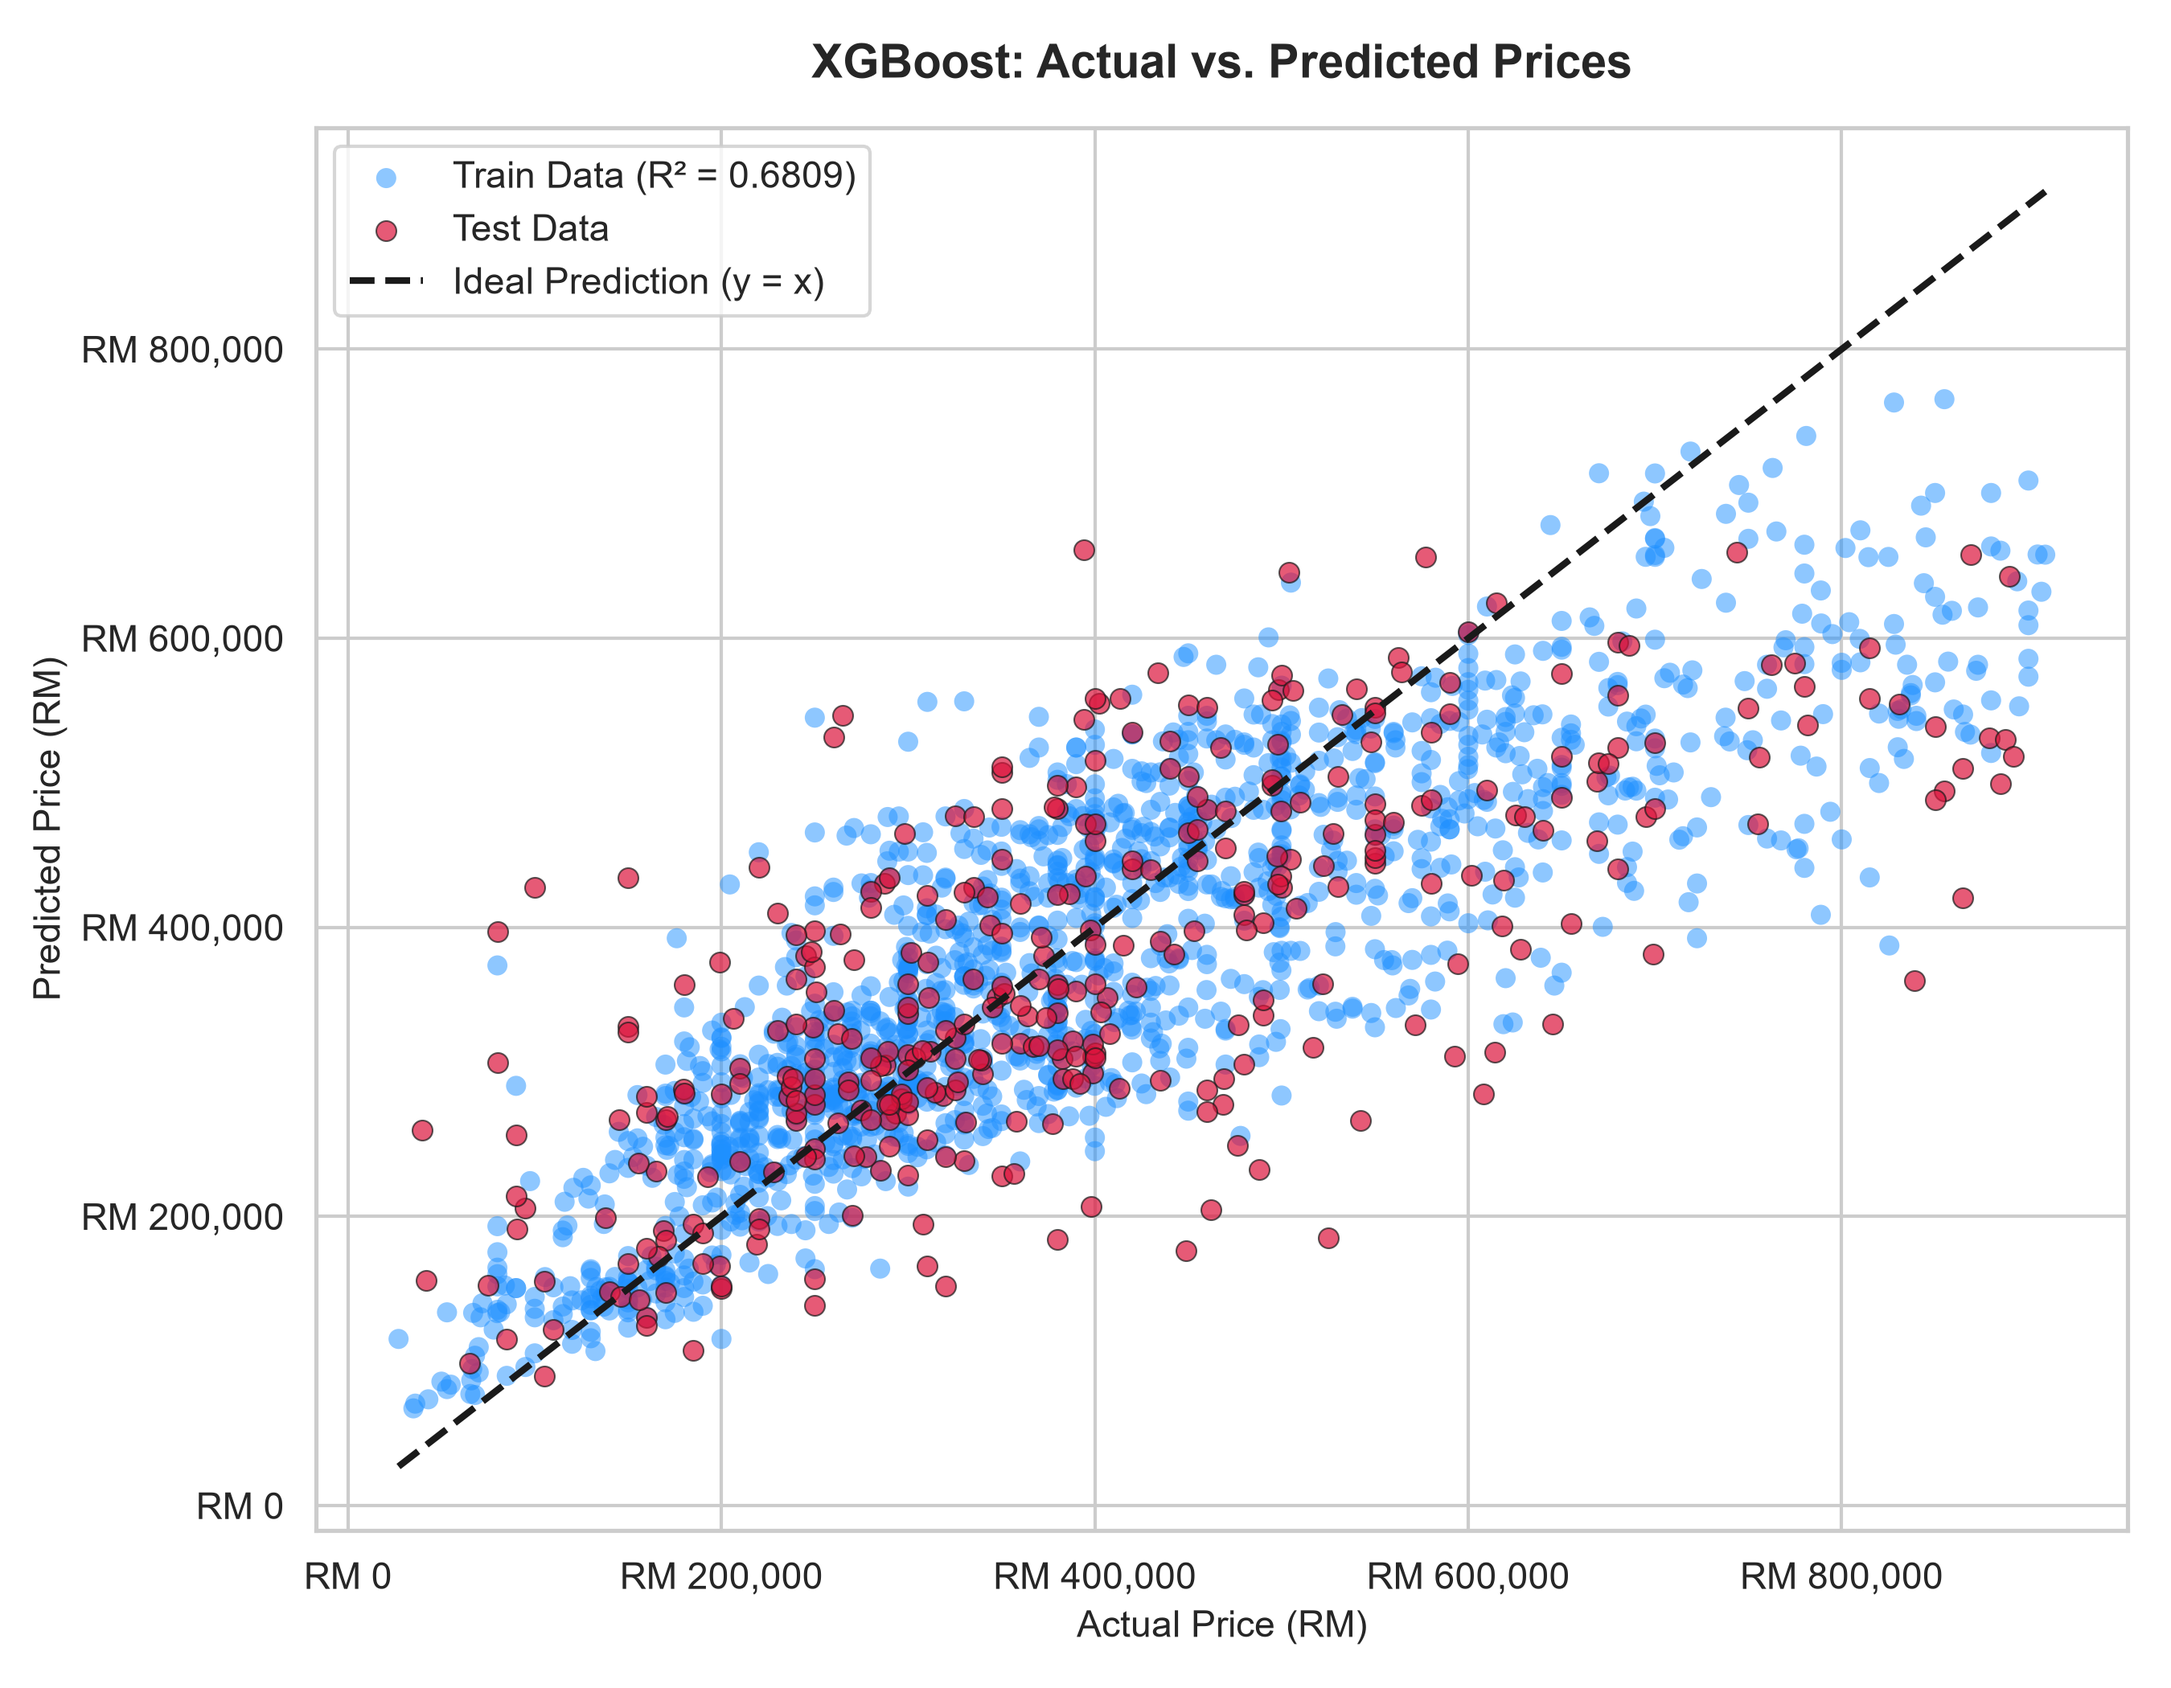
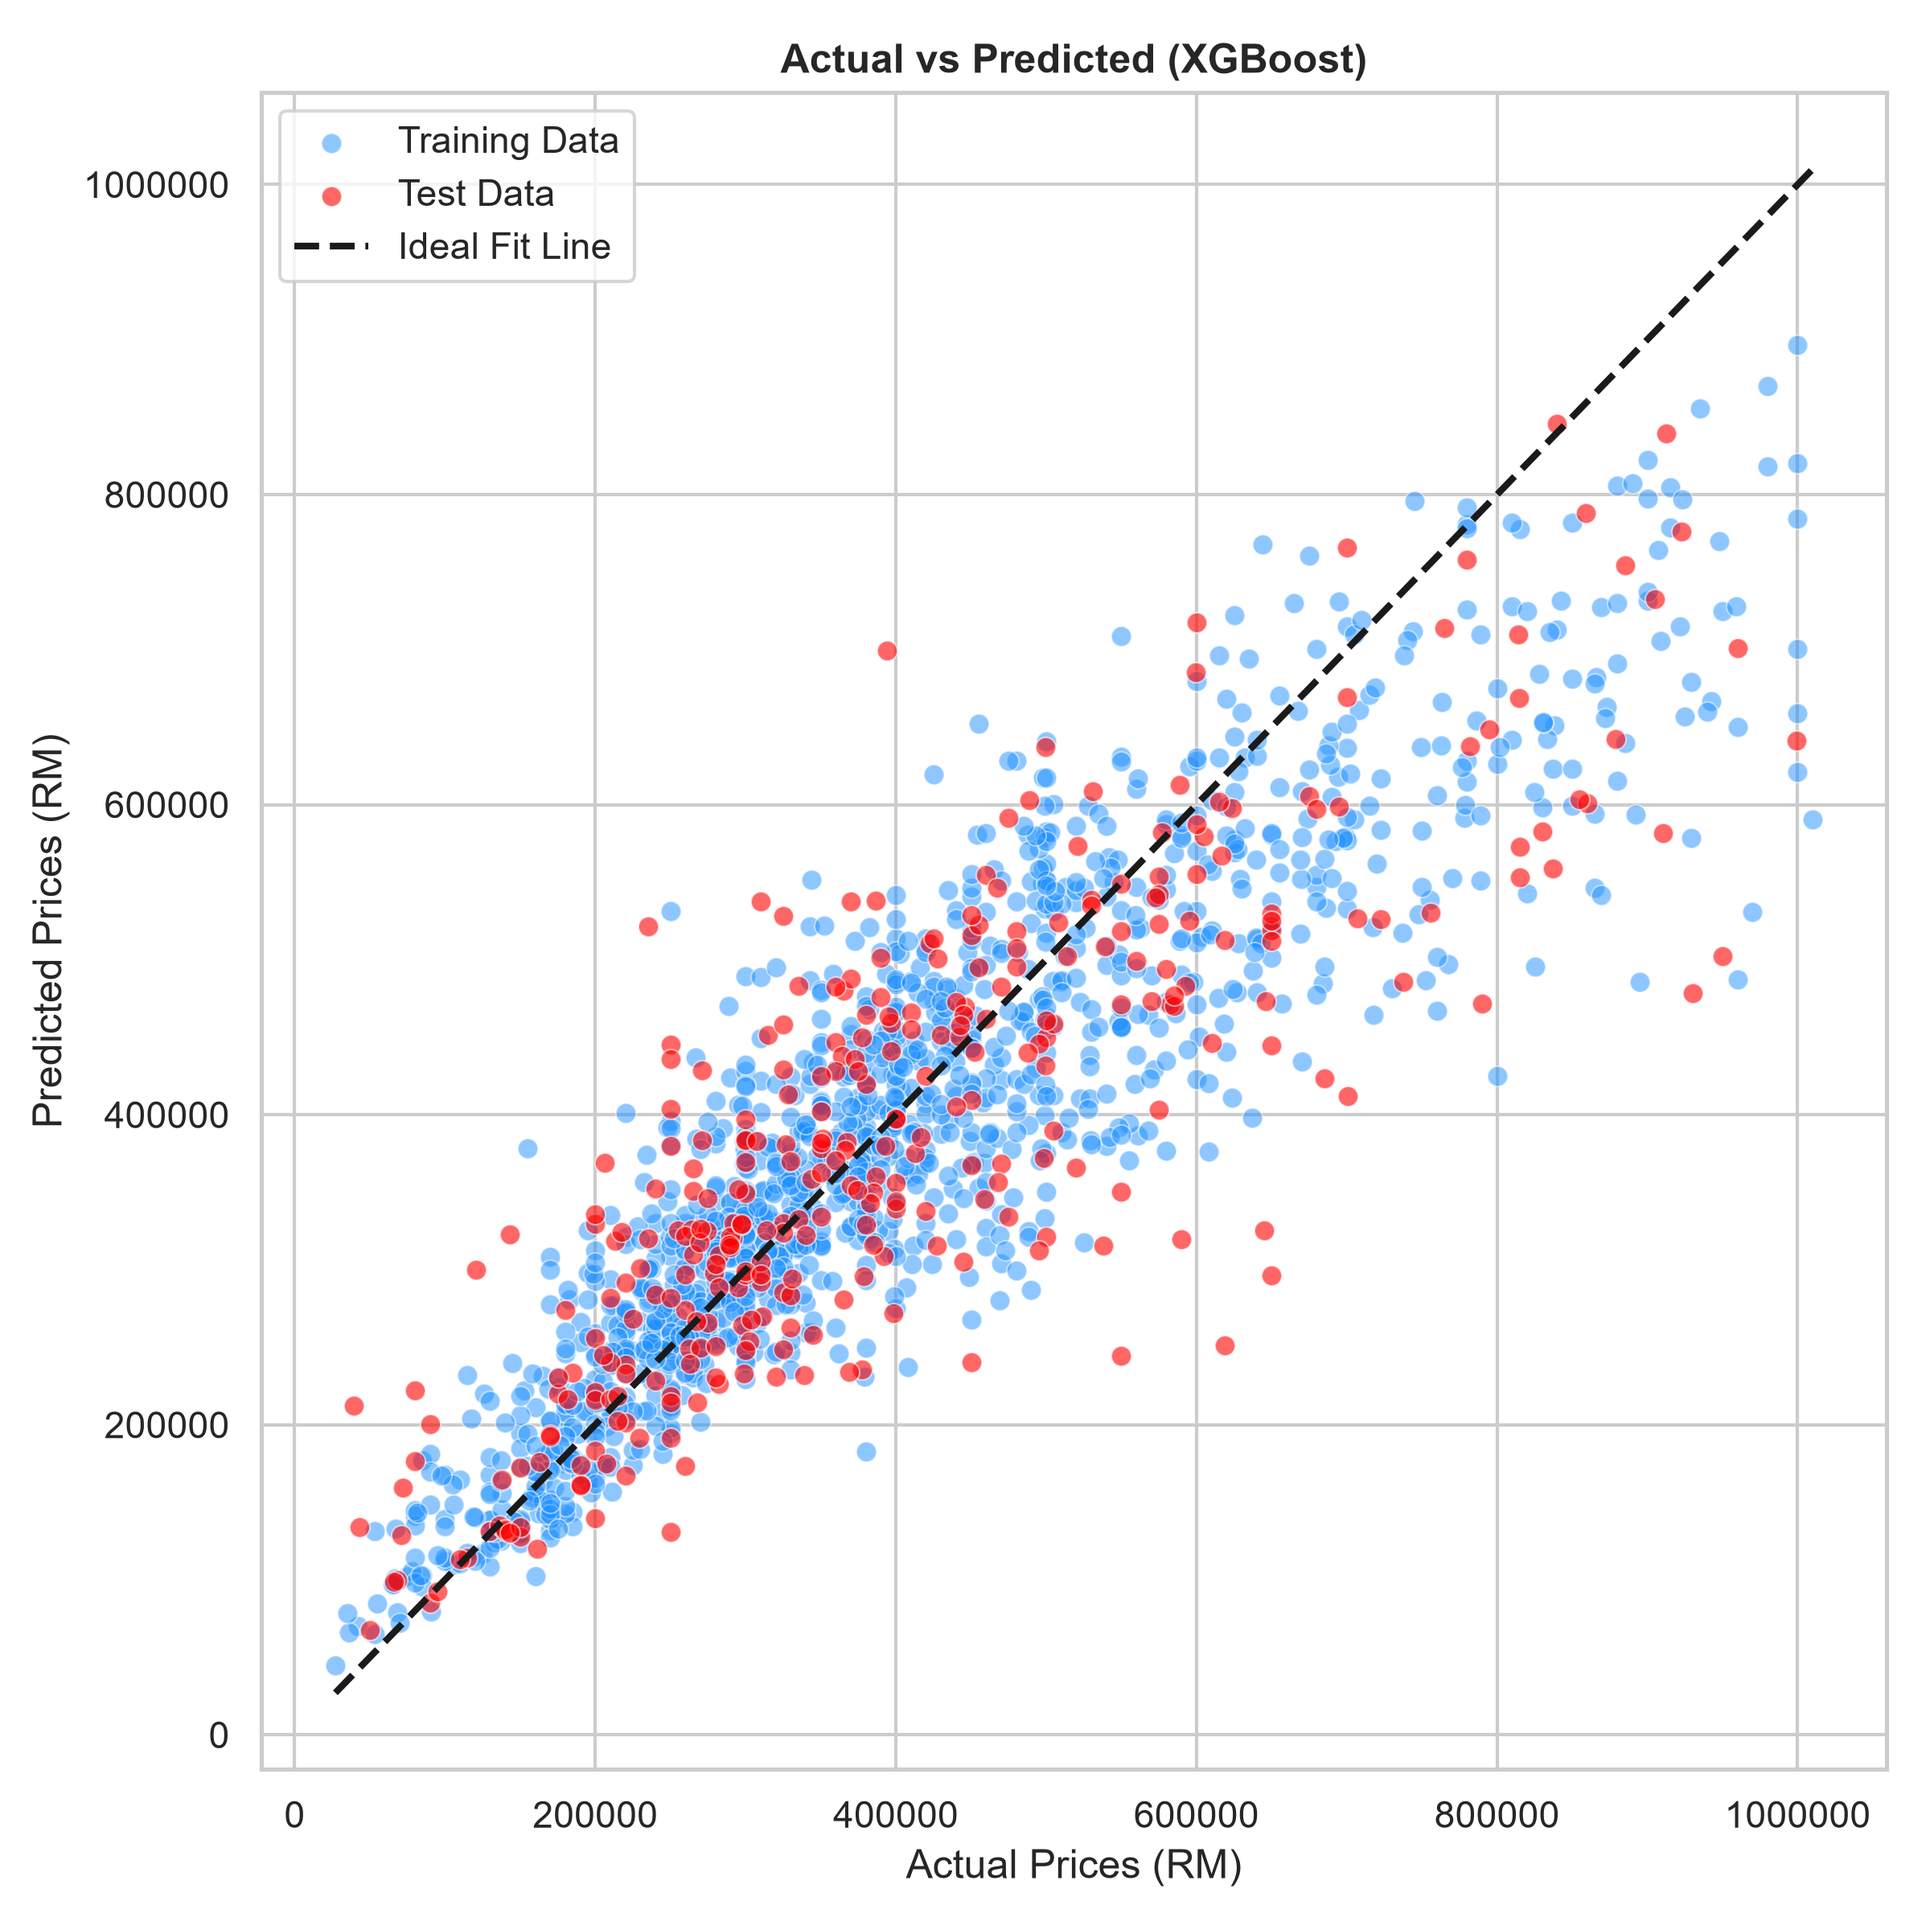
added few graph for model_visual.py

diff --git a/src/model_visual.py b/src/model_visual.py
@@ -1,13 +1,16 @@
+import json
+from pathlib import Path
+import sys
+import joblib
+import matplotlib.pyplot as plt
 import pandas as pd
 import seaborn as sns
-import matplotlib.pyplot as plt
-import numpy as np
-import sys
-from pathlib import Path
+import matplotlib.ticker as ticker
 
 project_root = Path(__file__).resolve().parent.parent
 sys.path.append(str(project_root))
 from src.data_preprocessing import run_preprocessing_pipeline
+from src.utils import load_raw_dataset, split_dataset
 
 
 def main():
@@ -23,7 +26,9 @@ def main():
     # Chart 1: Comprehensive Trends
     fig, axes = plt.subplots(nrows=2, ncols=2, figsize=(16, 12))
     fig.suptitle(
-        "Comprehensive Malaysia Housing Market Analysis", fontsize=16, fontweight="bold"
+        "Comprehensive Malaysia Housing Market Analysis",
+        fontsize=16,
+        fontweight="bold",
     )
 
     state_price = (
@@ -33,7 +38,12 @@ def main():
         .head(10)
     )
     sns.barplot(
-        x=state_price.values, y=state_price.index, ax=axes[0, 0], palette="viridis"
+        x=state_price.values,
+        y=state_price.index,
+        ax=axes[0, 0],
+        hue=state_price.index,
+        palette="viridis",
+        legend=False,
     )
     axes[0, 0].set_title("Top 10 States by Median Price")
 
@@ -47,7 +57,14 @@ def main():
         .sort_values(ascending=False)
         .head(8)
     )
-    sns.barplot(x=type_vol.values, y=type_vol.index, ax=axes[0, 1], palette="magma")
+    sns.barplot(
+        x=type_vol.values,
+        y=type_vol.index,
+        ax=axes[0, 1],
+        hue=type_vol.index,
+        palette="magma",
+        legend=False,
+    )
     axes[0, 1].set_title("Most Traded Property Types")
 
     sns.histplot(
@@ -56,7 +73,13 @@ def main():
     axes[1, 0].set_title("Distribution of Property Prices")
 
     sns.boxplot(
-        data=df_visual, x="Tenure", y="Median_Price", ax=axes[1, 1], palette="Set2"
+        data=df_visual,
+        x="Tenure",
+        y="Median_Price",
+        ax=axes[1, 1],
+        hue="Tenure",
+        palette="Set2",
+        legend=False,
     )
     axes[1, 1].set_title("Price Comparison: Freehold vs Leasehold")
 
@@ -86,6 +109,174 @@ def main():
     plt.tight_layout()
     plt.savefig(output_dir / "boxplot_features.png", dpi=300)
     print("✅ Saved boxplot_features.png")
+
+    # MODEL PERFORMANCE COMPARISONS
+    metrics_path = project_root / "report_assets" / "metrics.json"
+    if metrics_path.exists():
+        print("Generating Model Comparison Charts...")
+        with open(metrics_path, "r") as f:
+            metrics_data = json.load(f)
+
+        df_metrics = pd.DataFrame(metrics_data).T
+
+        # Chart 8: R² Comparison Chart
+        plt.figure(figsize=(10, 6))
+        sns.barplot(
+            x=df_metrics.index,
+            y="test_r2",
+            data=df_metrics,
+            palette="Blues_d",
+            hue=df_metrics.index,
+            legend=False,
+        )
+        plt.title(
+            "Model Comparison - Test R² Score (Higher is Better)",
+            fontweight="bold",
+        )
+        plt.xlabel("Models")
+        plt.ylabel("Test R² Score")
+        plt.ylim(0, 1.05)
+        plt.xticks(rotation=15)
+        plt.tight_layout()
+        plt.savefig(output_dir / "model_comparison_r2.png", dpi=300)
+        plt.close()
+        print("✅ Saved model_comparison_r2.png")
+
+        # Error Metrics Comparison (RMSE and MAE)
+        if {"test_rmse", "test_mae"}.issubset(df_metrics.columns):
+            df_errors = (
+                df_metrics[["test_rmse", "test_mae"]]
+                .reset_index()
+                .melt(
+                    id_vars="index",
+                    var_name="Metric",
+                    value_name="Error (RM)",
+                )
+            )
+            df_errors["Metric"] = df_errors["Metric"].replace(
+                {"test_rmse": "RMSE", "test_mae": "MAE"}
+            )
+            plt.figure(figsize=(12, 6))
+            sns.barplot(
+                x="index",
+                y="Error (RM)",
+                hue="Metric",
+                data=df_errors,
+                palette="muted",
+            )
+            plt.title(
+                "Model Comparison - Test RMSE and MAE (Lower is Better)",
+                fontweight="bold",
+            )
+            plt.xlabel("Models")
+            plt.ylabel("Error Value (MYR)")
+            plt.xticks(rotation=15)
+            plt.tight_layout()
+            plt.savefig(output_dir / "model_comparison_errors.png", dpi=300)
+            plt.close()
+            print("✅ Saved model_comparison_errors.png")
+
+    # MODEL SELF-DIAGNOSTICS (TRAIN VS TEST CHARTS)
+    print(
+        "Generating individual model diagnostics (Actual vs Predicted & Residuals)..."
+    )
+    categorical_features = ["Area", "State", "Tenure"]
+    numerical_features = ["Transactions", "Log_Estimated_Size"]
+
+    # Retrieve both training and testing datasets
+    X_train, X_test, y_train, y_test = split_dataset(
+        df_visual, categorical_features, numerical_features, type_cols
+    )
+
+    prototype_dir = project_root / "prototype"
+    model_files = {
+        "Multiple Linear Regression": "linear_regression.pkl",
+        "Support Vector Regression": "svr_regression.pkl",
+        "Random Forest": "random_forest_regression.pkl",
+        "XGBoost": "xgboost_regression.pkl",
+    }
+
+    for model_name, filename in model_files.items():
+        model_path = prototype_dir / filename
+        if not model_path.exists():
+            continue
+
+        try:
+            model = joblib.load(model_path)
+            y_train_pred = model.predict(X_train)
+            y_test_pred = model.predict(X_test)
+        except Exception as e:
+            print(f"Skipping {model_name} due to load error: {e}")
+            continue
+
+        # 1. Actual vs Predicted Chart
+        fig, ax = plt.subplots(figsize=(8, 8))
+        sns.scatterplot(
+            x=y_train,
+            y=y_train_pred,
+            alpha=0.5,
+            color="dodgerblue",
+            label="Training Data",
+            ax=ax,
+        )
+        sns.scatterplot(
+            x=y_test,
+            y=y_test_pred,
+            alpha=0.6,
+            color="red",
+            label="Test Data",
+            ax=ax,
+        )
+
+        min_val = min(
+            y_train.min(), y_test.min(), y_train_pred.min(), y_test_pred.min()
+        )
+        max_val = max(
+            y_train.max(), y_test.max(), y_train_pred.max(), y_test_pred.max()
+        )
+        ax.plot(
+            [min_val, max_val],
+            [min_val, max_val],
+            "k--",
+            lw=2,
+            label="Ideal Fit Line",
+        )
+
+        ax.ticklabel_format(style='plain', axis='both')
+        ax.set_title(f"Actual vs Predicted ({model_name})", fontweight="bold")
+        ax.set_xlabel("Actual Prices (RM)")
+        ax.set_ylabel("Predicted Prices (RM)")
+        ax.legend(loc="upper left")
+        plt.tight_layout()
+        safe_name = model_name.lower().replace(" ", "_")
+        plt.savefig(output_dir / f"actual_vs_predicted_{safe_name}.png", dpi=300)
+        plt.close()
+
+        # 2. Residuals vs Predicted Chart
+        residuals_test = y_test - y_test_pred
+
+        fig, ax = plt.subplots(figsize=(9, 6))
+        sns.scatterplot(
+            x=y_test_pred,
+            y=residuals_test,
+            alpha=0.6,
+            color="crimson",
+            label="Test Data",
+            ax=ax,
+        )
+
+        ax.axhline(0, color="black", linestyle="--", lw=2, label="Zero Error Line")
+        ax.set_title(f"Residual Plot ({model_name})", fontweight="bold")
+        ax.set_xlabel("Predicted Prices (RM)")
+        ax.set_ylabel("Residuals (Actual - Predicted)(RM)")
+        ax.legend(loc="upper right")
+        plt.tight_layout()
+        plt.savefig(output_dir / f"residuals_vs_predicted_{safe_name}.png", dpi=300)
+        plt.close()
+
+    print(
+        "✅ Saved all updated Actual vs Predicted and Residual diagnostic charts for all models."
+    )
 
 
 if __name__ == "__main__":
